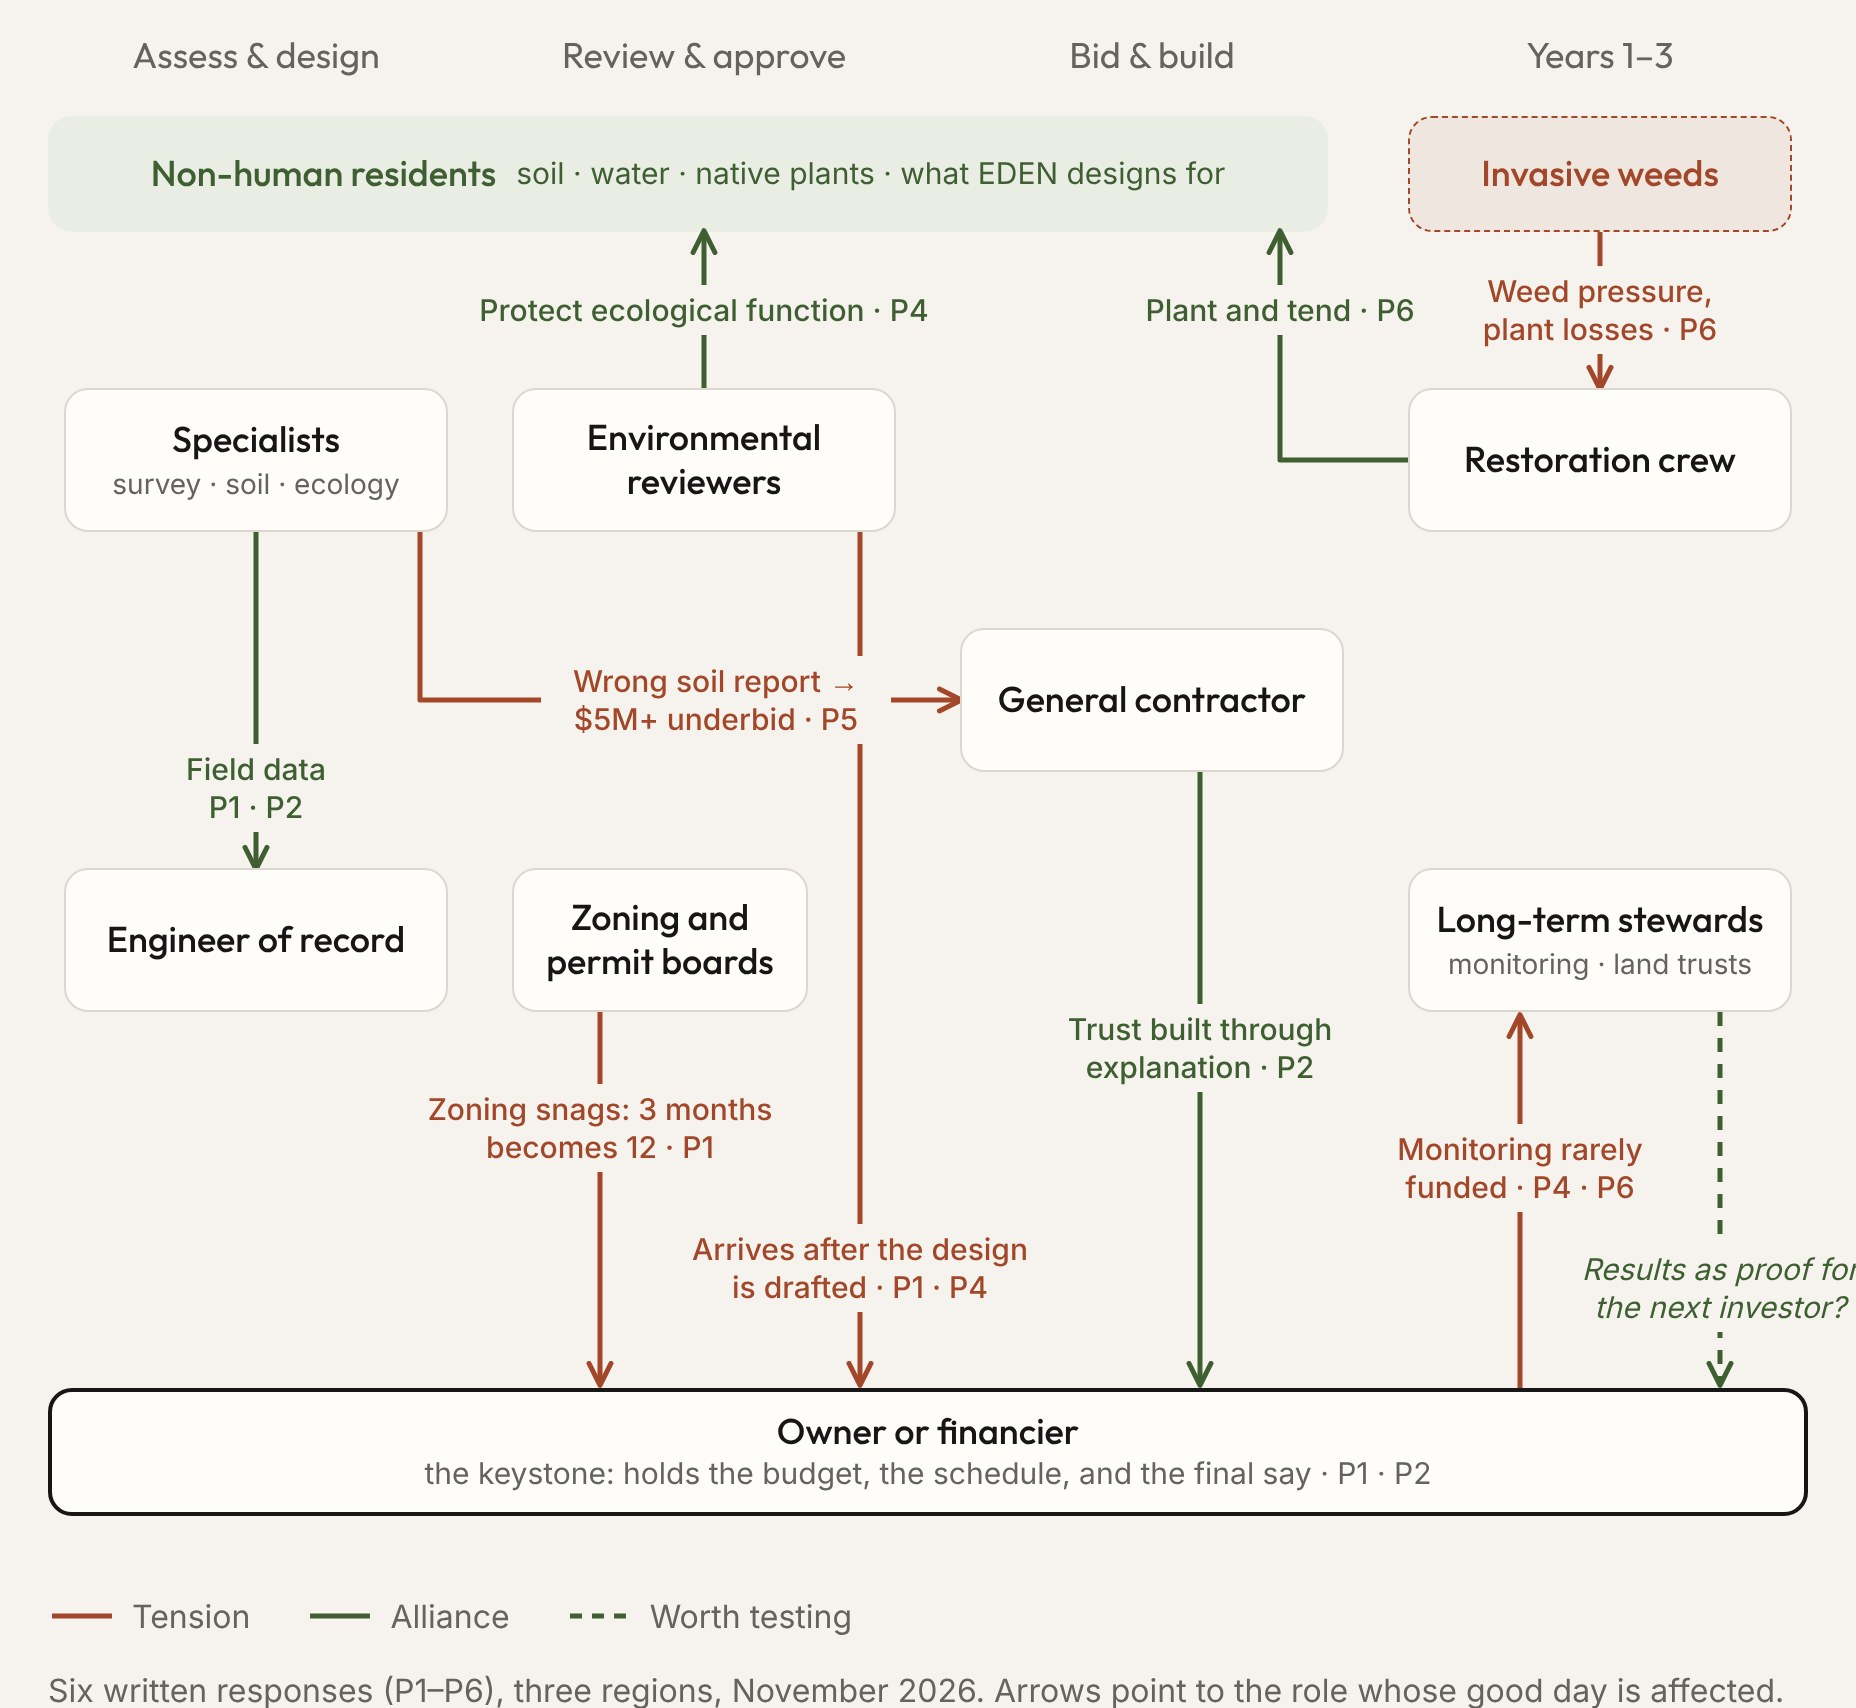
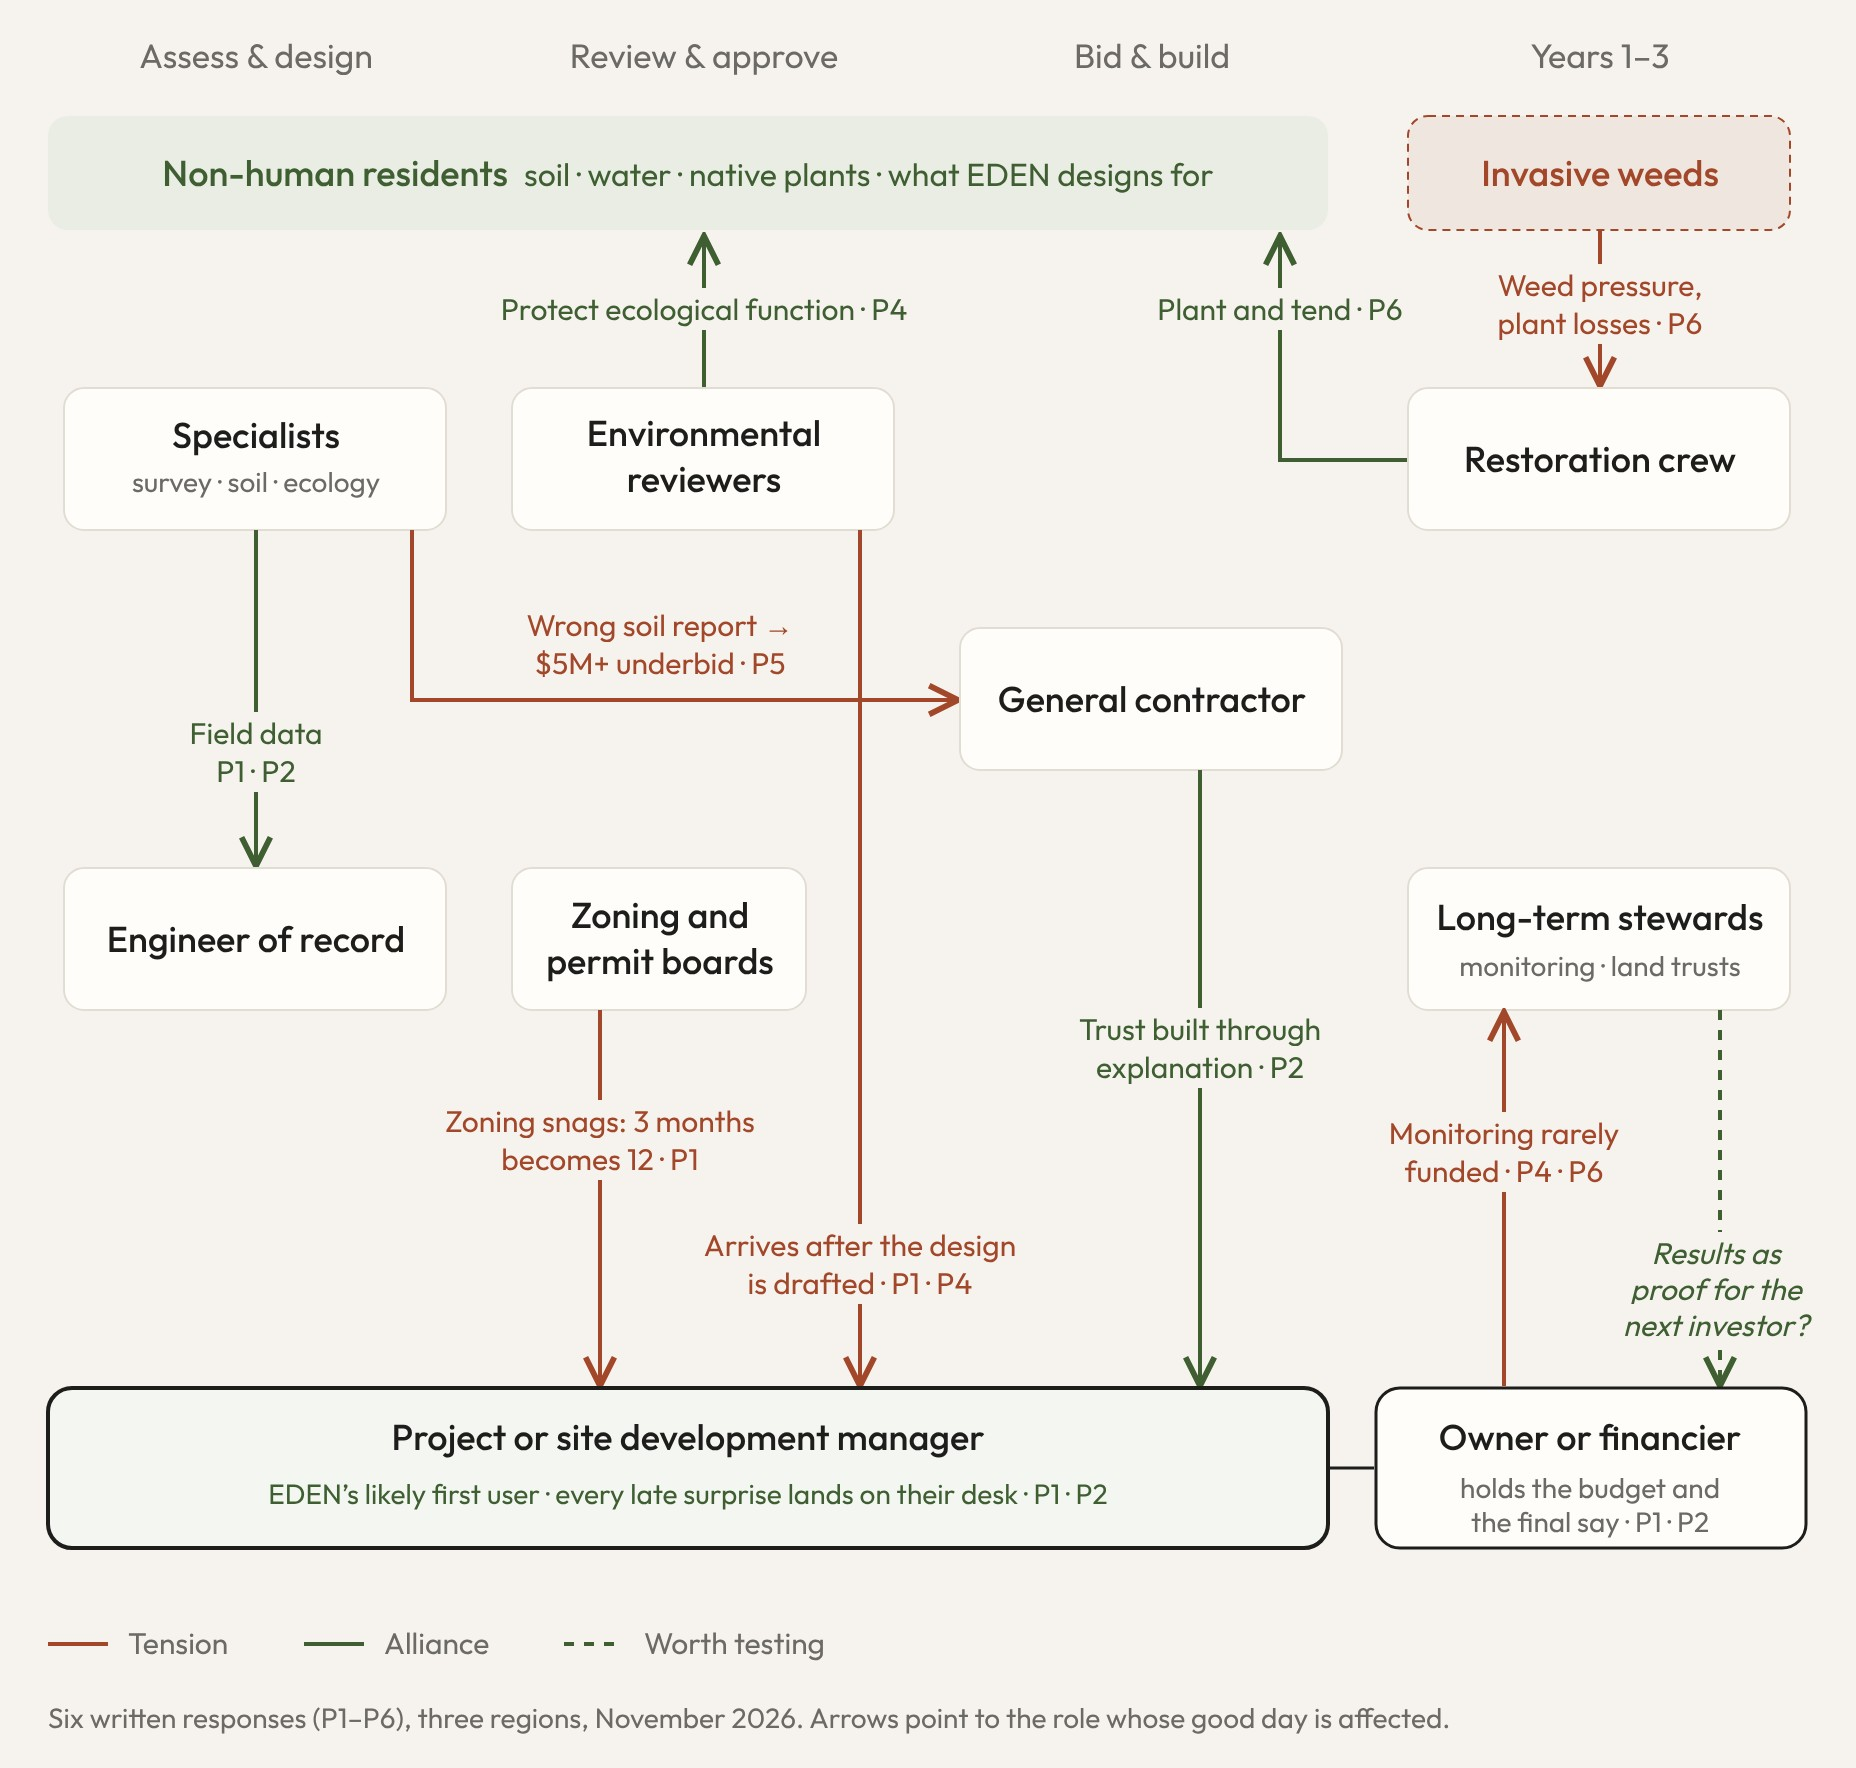
EDEN brief: add first user to Fig. 02, move Nov 21 update below Fig. 01, cite Systems Architect posting
Claude-Session: https://claude.ai/code/session_012LDqrn3Mzvt2TUdaD1WoZ5

diff --git a/research/field-briefs/eden/index.html b/research/field-briefs/eden/index.html
@@ -37,9 +37,9 @@
 .hyp-table th[scope=row]{padding:16px 16px 2px;border:0}.hyp-table td{padding:2px 16px 16px}
 .table-wrap:has(.hyp-table){margin-right:0;border-right:1px solid var(--line);border-radius:var(--radius-sm)}
 .figure-wide{width:100vw}.figure-wide img{border-radius:0}.figure-wide figcaption{padding:0 20px}}
-.brief-update{border-left:2px solid #3F5F33;background:none;padding:4px 0 4px 20px;border-radius:0 var(--radius-sm) var(--radius-sm) 0;margin:0 0 32px}.brief-update .mini-label{color:#3F5F33}.brief-update p{margin:.4em 0 0;font-size:17px;line-height:1.55}.eco-table tr.first-user th,.eco-table tr.first-user td:not(.risk){background:#f4f6f1}.eco-table .role-note{display:block;margin-top:4px;font-family:Inter,sans-serif;font-size:12px;letter-spacing:.06em;text-transform:uppercase;font-weight:700;color:#3F5F33}.table-wrap:has(.eco-table),.table-wrap:has(.hyp-table){overflow-y:hidden;scrollbar-gutter:auto}</style></head><body><a class="skip-link" href="#main-content">Skip to main content</a><header><nav class="nav" aria-label="Main navigation"><a class="brand-lockup" href="/index.html" aria-label="Abby Buchanan home"><img class="logo-image" src="/assets/images/logo-dark.png" alt=""><span class="brand-name">Abby Buchanan</span></a><div class="nav-links"><a href="/work/scaffold.html">Work</a><a href="/research/index.html" aria-current="page">Research</a><a href="/about.html">About</a><a href="/resume.html">Resume</a></div></nav></header><main id="main-content"><article class="article"><header><a class="back-link" href="/research/index.html">← Research</a><p class="dek" style="font-size:0.9rem;font-style:italic;margin:0 0 1rem">Shared privately with the EDEN team; not listed on this site.</p><div class="eyebrow">Field Brief 01</div><h1>The Human Ecosystem of Implementation</h1><p class="dek">Who carries an ecological design from site data to year three</p><div class="article-meta"><span>Abby Buchanan</span><span>November 2026</span><span>Working brief · Provisional · 6 responses</span></div></header><div class="article-body">
+.brief-update{margin:56px 0 0}.brief-update .update-entry{border-left:2px solid #3F5F33;padding:4px 0 4px 20px;margin:0 0 24px}.update-pointer{margin:0 0 28px;font-size:15px}.update-pointer a{color:#3F5F33;text-decoration:none;border-bottom:1px solid rgba(63,95,51,.35)}.update-pointer a:hover{border-bottom-color:#3F5F33}.brief-update .mini-label{color:#3F5F33}.brief-update p{margin:.4em 0 0;font-size:17px;line-height:1.55}.eco-table tr.first-user th,.eco-table tr.first-user td:not(.risk){background:#f4f6f1}.eco-table .role-note{display:block;margin-top:4px;font-family:Inter,sans-serif;font-size:12px;letter-spacing:.06em;text-transform:uppercase;font-weight:700;color:#3F5F33}.table-wrap:has(.eco-table),.table-wrap:has(.hyp-table){overflow-y:hidden;scrollbar-gutter:auto}</style></head><body><a class="skip-link" href="#main-content">Skip to main content</a><header><nav class="nav" aria-label="Main navigation"><a class="brand-lockup" href="/index.html" aria-label="Abby Buchanan home"><img class="logo-image" src="/assets/images/logo-dark.png" alt=""><span class="brand-name">Abby Buchanan</span></a><div class="nav-links"><a href="/work/scaffold.html">Work</a><a href="/research/index.html" aria-current="page">Research</a><a href="/about.html">About</a><a href="/resume.html">Resume</a></div></nav></header><main id="main-content"><article class="article"><header><a class="back-link" href="/research/index.html">← Research</a><p class="dek" style="font-size:0.9rem;font-style:italic;margin:0 0 1rem">Shared privately with the EDEN team; not listed on this site.</p><div class="eyebrow">Field Brief 01</div><h1>The Human Ecosystem of Implementation</h1><p class="dek">Who carries an ecological design from site data to year three</p><div class="article-meta"><span>Abby Buchanan</span><span>November 2026</span><span>Working brief · Provisional · 6 responses</span></div></header><div class="article-body">
 
-<aside class="brief-update" aria-label="Update, November 21, 2026"><div class="mini-label">Update · November 21, 2026</div><p>A follow-up from P4, the senior policy analyst, sharpened finding 2. Teams reliably design around what the rules name, like wetlands, but not what they don’t: a 250-year-old oak, a sunny slope by a pond where turtles nest, the untidy shrubs at the water’s edge that shelter tree frogs. Ecological and traditional knowledge usually arrive after the design is finished and paid for, when the cost and ramifications of a change can be more than the project can absorb. Her wish: a way to see a site through an ecologist’s eyes before design begins.</p><p>That strengthens idea A, and raises a question for EDEN: a model can map species, but cultural resources and traditional knowledge come from people.</p></aside>
+<p class="update-pointer"><a href="#since-mailing">Updated since mailing: November 21, new input on finding 2 ↓</a></p>
 
 <div class="callout"><div class="mini-label">The short answer</div><p>EDEN’s first user is likely the person who carries a design from the owner’s goals to everyone who must approve, price, build, and care for it: often a project or site development manager. EDEN’s posting maps the journey to a validated design. The people I spoke with described a second journey after that, often slower and less predictable, through review, bidding, building, and the first years in the ground, where a design gets built or quietly stalls. Most of the problems shared a pattern: information arrived too late to shape the design.</p><p><strong>The implementation is the design objective.</strong> A validated design is a milestone; the goal is a site that gets built, gets established, thrives, and invites future investment. <strong>EDEN designs for every species on a site; the same thinking can design for the human ecosystem that builds it.</strong></p></div>
 
@@ -49,6 +49,8 @@
 <h2>Where projects bog down</h2>
 <p>Six steps from finding a site to its first years in the ground. Numbered points are where participants said the work stalls.</p>
 <figure class="figure-wide"><a href="/assets/images/field-briefs/eden-fig01.jpg"><img src="/assets/images/field-briefs/eden-fig01.jpg" alt="Fig. 01. A six-step project lifecycle: find the site, secure the land, assess and design, review and approve, bid and build, after it’s built. A marker shows where EDEN’s posted journey ends, at the validated design. Five numbered points where work stalls: 1, early site data can be coarse or wrong (P1, P2, P5); 2, environmental review arrives after the design is drafted (P1, P4); 3, zoning and environmental snags stretch timelines from 3 to 12 months or move the site (P1); 4, weed pressure and plant losses in years 1 to 3, traced back to the site’s original condition (P6); 5, benefits often assumed and monitoring rarely funded, so success is judged by what can be seen (P4, P6). Three ideas worth testing: A, ecological input at the site walk; B, feeding field findings back into early estimates; C, monitoring set up before construction." width="928" height="934"></a><figcaption>Fig. 01. Four of the five points where the work stalls come after the point where EDEN’s posted journey ends.</figcaption></figure>
+
+<section class="brief-update" id="since-mailing" aria-labelledby="since-mailing-h"><h2 id="since-mailing-h">Since mailing</h2><div class="update-entry"><div class="mini-label">November 21, 2026 · Finding 2</div><p>A follow-up from P4, the senior policy analyst, sharpened finding 2. Teams reliably design around what the rules name, like wetlands, but not what they don’t: a 250-year-old oak, a sunny slope by a pond where turtles nest, the untidy shrubs at the water’s edge that shelter tree frogs. Ecological and traditional knowledge usually arrive after the design is finished and paid for, when the cost and ramifications of a change can be more than the project can absorb. Her wish: a way to see a site through an ecologist’s eyes before design begins.</p><p>That strengthens idea A, and raises a question for EDEN: a model can map species, but cultural resources and traditional knowledge come from people.</p></div></section>
 
 <h2>First-user hypothesis</h2>
 <div class="table-wrap"><table class="hyp-table"><tbody>
@@ -80,7 +82,7 @@
 
 <h3>Tensions and allies</h3>
 <p>No role here is wrong for needing what it needs; each is doing its job. The design question is how every role gets fed without feeding on another.</p>
-<figure class="figure-wide"><a href="/assets/images/field-briefs/eden-fig02.jpg"><img src="/assets/images/field-briefs/eden-fig02.jpg" alt="Fig. 02. Tensions and allies among the roles a design passes through. Tensions: a wrong soil report leads to a $5M+ underbid (P5); environmental review arrives after the design is drafted (P1, P4); zoning snags stretch 3 months to 12 (P1); monitoring is rarely funded (P4, P6); invasive weeds cause plant losses for the restoration crew (P6). Alliances: specialists give the engineer field data (P1, P2); reviewers protect ecological function (P4); the restoration crew plants and tends the site (P6); contractors build trust through explanation (P2). Worth testing: measured results as proof for the next investor." width="928" height="854" loading="lazy"></a><figcaption>Fig. 02. Most tensions land on the owner, who absorbs every delay and holds the final say.</figcaption></figure>
+<figure class="figure-wide"><a href="/assets/images/field-briefs/eden-fig02.jpg"><img src="/assets/images/field-briefs/eden-fig02.jpg" alt="Fig. 02. Tensions and allies among the roles a design passes through. Most arrows end at the project or site development manager, EDEN’s likely first user, where every late surprise lands (P1, P2): zoning snags stretch 3 months to 12 (P1); environmental review arrives after the design is drafted (P1, P4); contractors build trust through explanation (P2). The manager works with the owner or financier, who holds the budget and the final say (P1, P2). Other links: a wrong soil report leads to a $5M+ underbid for the general contractor (P5); specialists give the engineer field data (P1, P2); reviewers protect ecological function (P4); the restoration crew plants and tends the site (P6) and faces weed pressure (P6); monitoring is rarely funded for long-term stewards (P4, P6). Worth testing: measured results as proof for the next investor." width="928" height="884" loading="lazy"></a><figcaption>Fig. 02. Most tensions land on the project manager, EDEN’s likely first user. The owner holds the budget and the final say.</figcaption></figure>
 
 <h2>Three assumptions to test in the first 90 days</h2>
 <ol>
@@ -93,7 +95,7 @@
 <p>Two questions I’d love to research next: whether designing for implementation makes sites faster to approve and closer to budget, a goal worth measuring; and how sites designed this way affect the health of the people who live and gather around them. Published research links nearby nature and shared gathering places to better health; EDEN sites could help show how much, and for whom.</p>
 
 <h2>Evidence status</h2>
-<p>Six responses show what happens, not how often. Two participants work in ecological fields, none has used EDEN, and EDEN’s internal steps are my inference from public material: OXMAN’s <a href="https://www.oxman.com/projects/eden" target="_blank" rel="noreferrer">EDEN project page</a> and its UX / UI Design (EDEN) posting, both read in November 2026. You may already be working on parts of this; if so, I’d love to learn how.</p>
+<p>Six responses show what happens, not how often. Two participants work in ecological fields, none has used EDEN, and EDEN’s internal steps are my inference from public material: OXMAN’s <a href="https://www.oxman.com/projects/eden" target="_blank" rel="noreferrer">EDEN project page</a> and its UX / UI Design (EDEN) and <a href="https://www.oxman.com/job/systems-architect-ac3c9b96-3372-4ab2-bc82-a7e0454a20e5" target="_blank" rel="noreferrer">Systems Architect</a> postings, all read in November 2026. You may already be working on parts of this; if so, I’d love to learn how.</p>
 <p>This brief applies the argument of <a href="/research/memos/invisible-tax.html">The Invisible Tax</a>: the effort people spend translating what they want into the language a system can process.</p>
 <p>Fig. 02 borrows its frame from two working memos: <a href="/research/memos/two-kinds-of-growth.html">Two Kinds of Growth</a>, on systems that grow by feeding each other rather than feeding on each other, and <a href="/research/memos/protection-and-repair.html">Protection and Repair</a>, on why harm so often comes from misplacement, not malice.</p>
 
